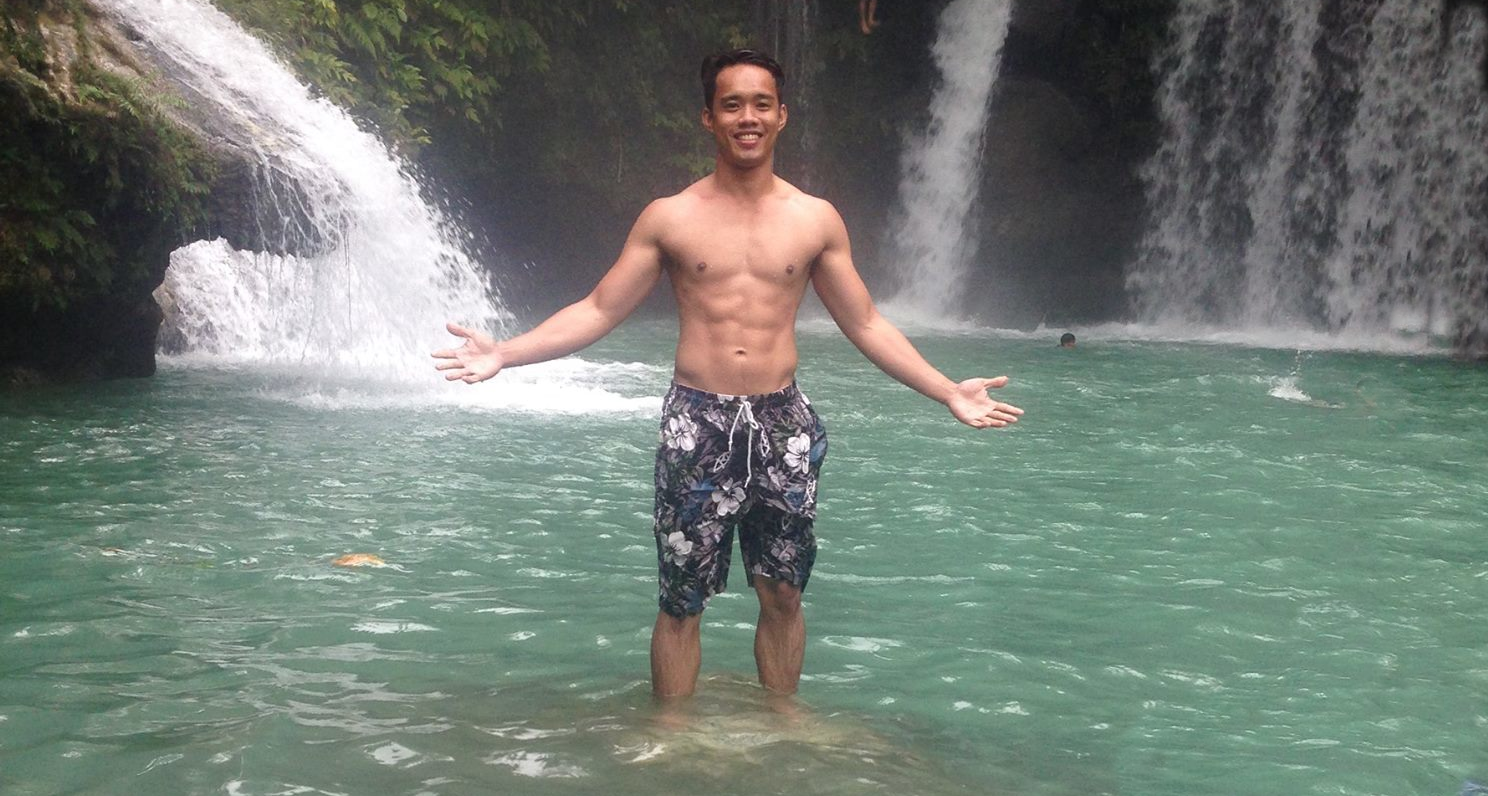
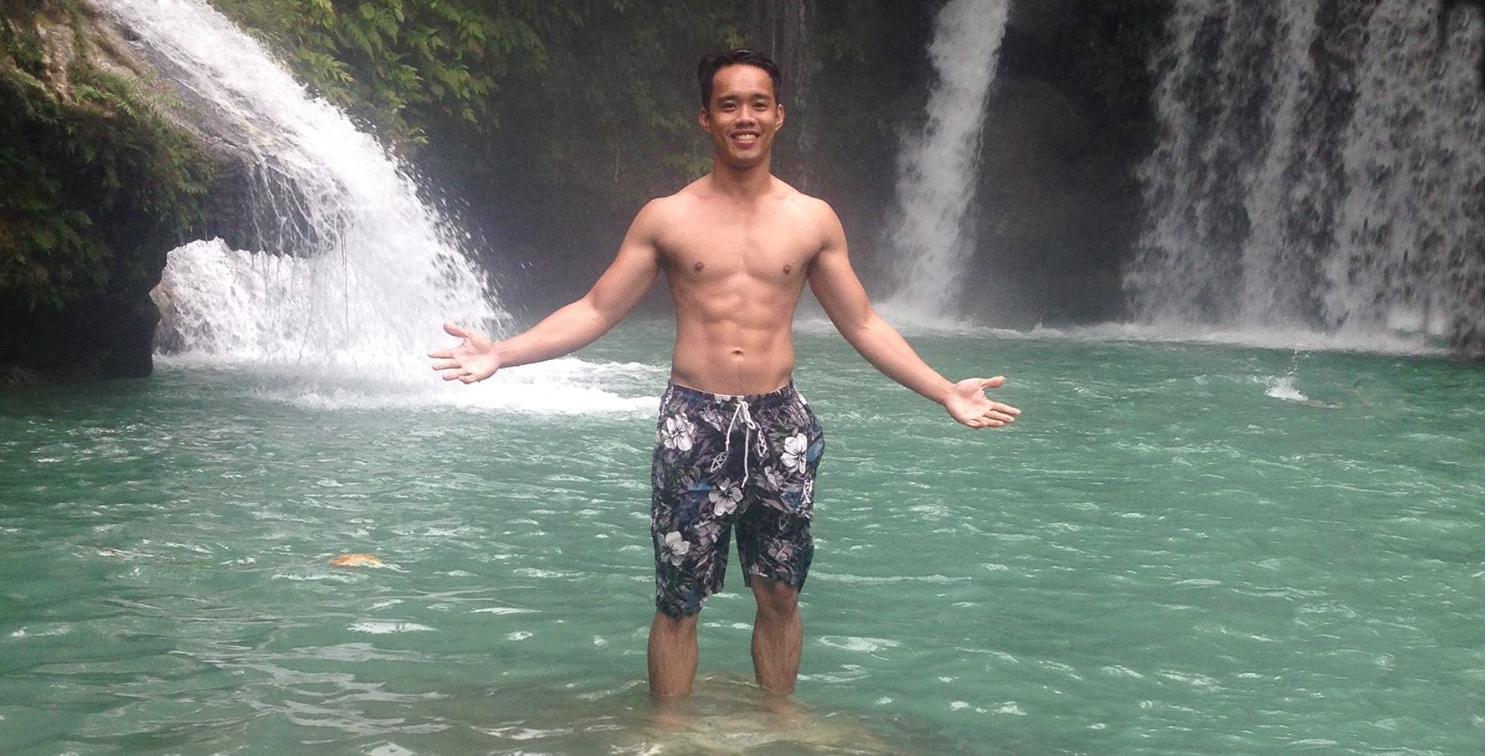
Add minor changes
-Added minor changes to Navbar
-Added minor changes to Header Background Image.

diff --git a/custom.css b/custom.css
@@ -35,20 +35,10 @@ body {
     align-items: center;
     align-content: center;
     background-image:url(Images/Kawasan\ falls\ 3.png);
-    background-position: center;
+    /* background-position: center; */
     background-size:cover;
-    background-attachment:local;
     border-bottom: solid black 1px;
 
-    /* transition: .10s ease-in-out;
-    transition-property: background-position;
-    -webkit-transition: .10s ease-in-out;
-    -moz-transition: .10s ease-in-out;
-    -o-transition: .10s ease-in-out;
-
-    -webkit-transition-property: background-position;
-    -moz-transition-property: background-position;
-    -o-transition-property: background-position; */
 }
 
 @media (max-width: 599px) {
@@ -557,7 +547,7 @@ footer a {
 
     /* Header Section starting 600px */
     .header {
-        height: calc(45vw);
+        height: calc(46vw);
     }
 
     .navbar {
@@ -827,4 +817,42 @@ footer a {
         font-size: 1.5vw;
         padding: 1vw 0;
     }
+}
+
+/* Responsive Settings of Desktop Devices */
+
+@media (min-width: 1200px) {
+    
+    .navbar {
+        height: 3.1vw;
+        /* border: 1px solid black; */
+    }
+
+    .navbar-content-wrapper {
+        width: 90vw;
+        height: 4vw;
+        align-self: center;
+        align-content: center;
+        /* border: 1px solid red; */
+    }
+
+    .branding {
+        font-size: 1vw;
+         /* border: 1px solid red; */
+    }
+
+    .nav-menu {
+        width: 20%;
+        height: 4vw;
+        right: 0;
+        margin-right: 4.6vw;
+    }
+
+    .nav-item a {
+        font-size: 1.25vw;
+        /* padding: 0vw 0vw 0vw 2vw; */
+        /* margin: auto; */
+    }
+
+
 }

diff --git a/script.js b/script.js
@@ -27,11 +27,11 @@ document.querySelectorAll(".nav-link").forEach(n => n.addEventListener("click", 
 
 
 // Navbar Scroll settings
-var   lastScrollTop = 0;
+let   lastScrollTop = 0;
         navbar = document.getElementById("navbar");
 
 window.addEventListener("scroll", function(){
-    var scrollTop = window.pageYOffset || document.documentElement.scrollTop;
+    let scrollTop = window.pageYOffset || document.documentElement.scrollTop;
     if (scrollTop > lastScrollTop){
         navbar.style.top="-80px";
     } else {
